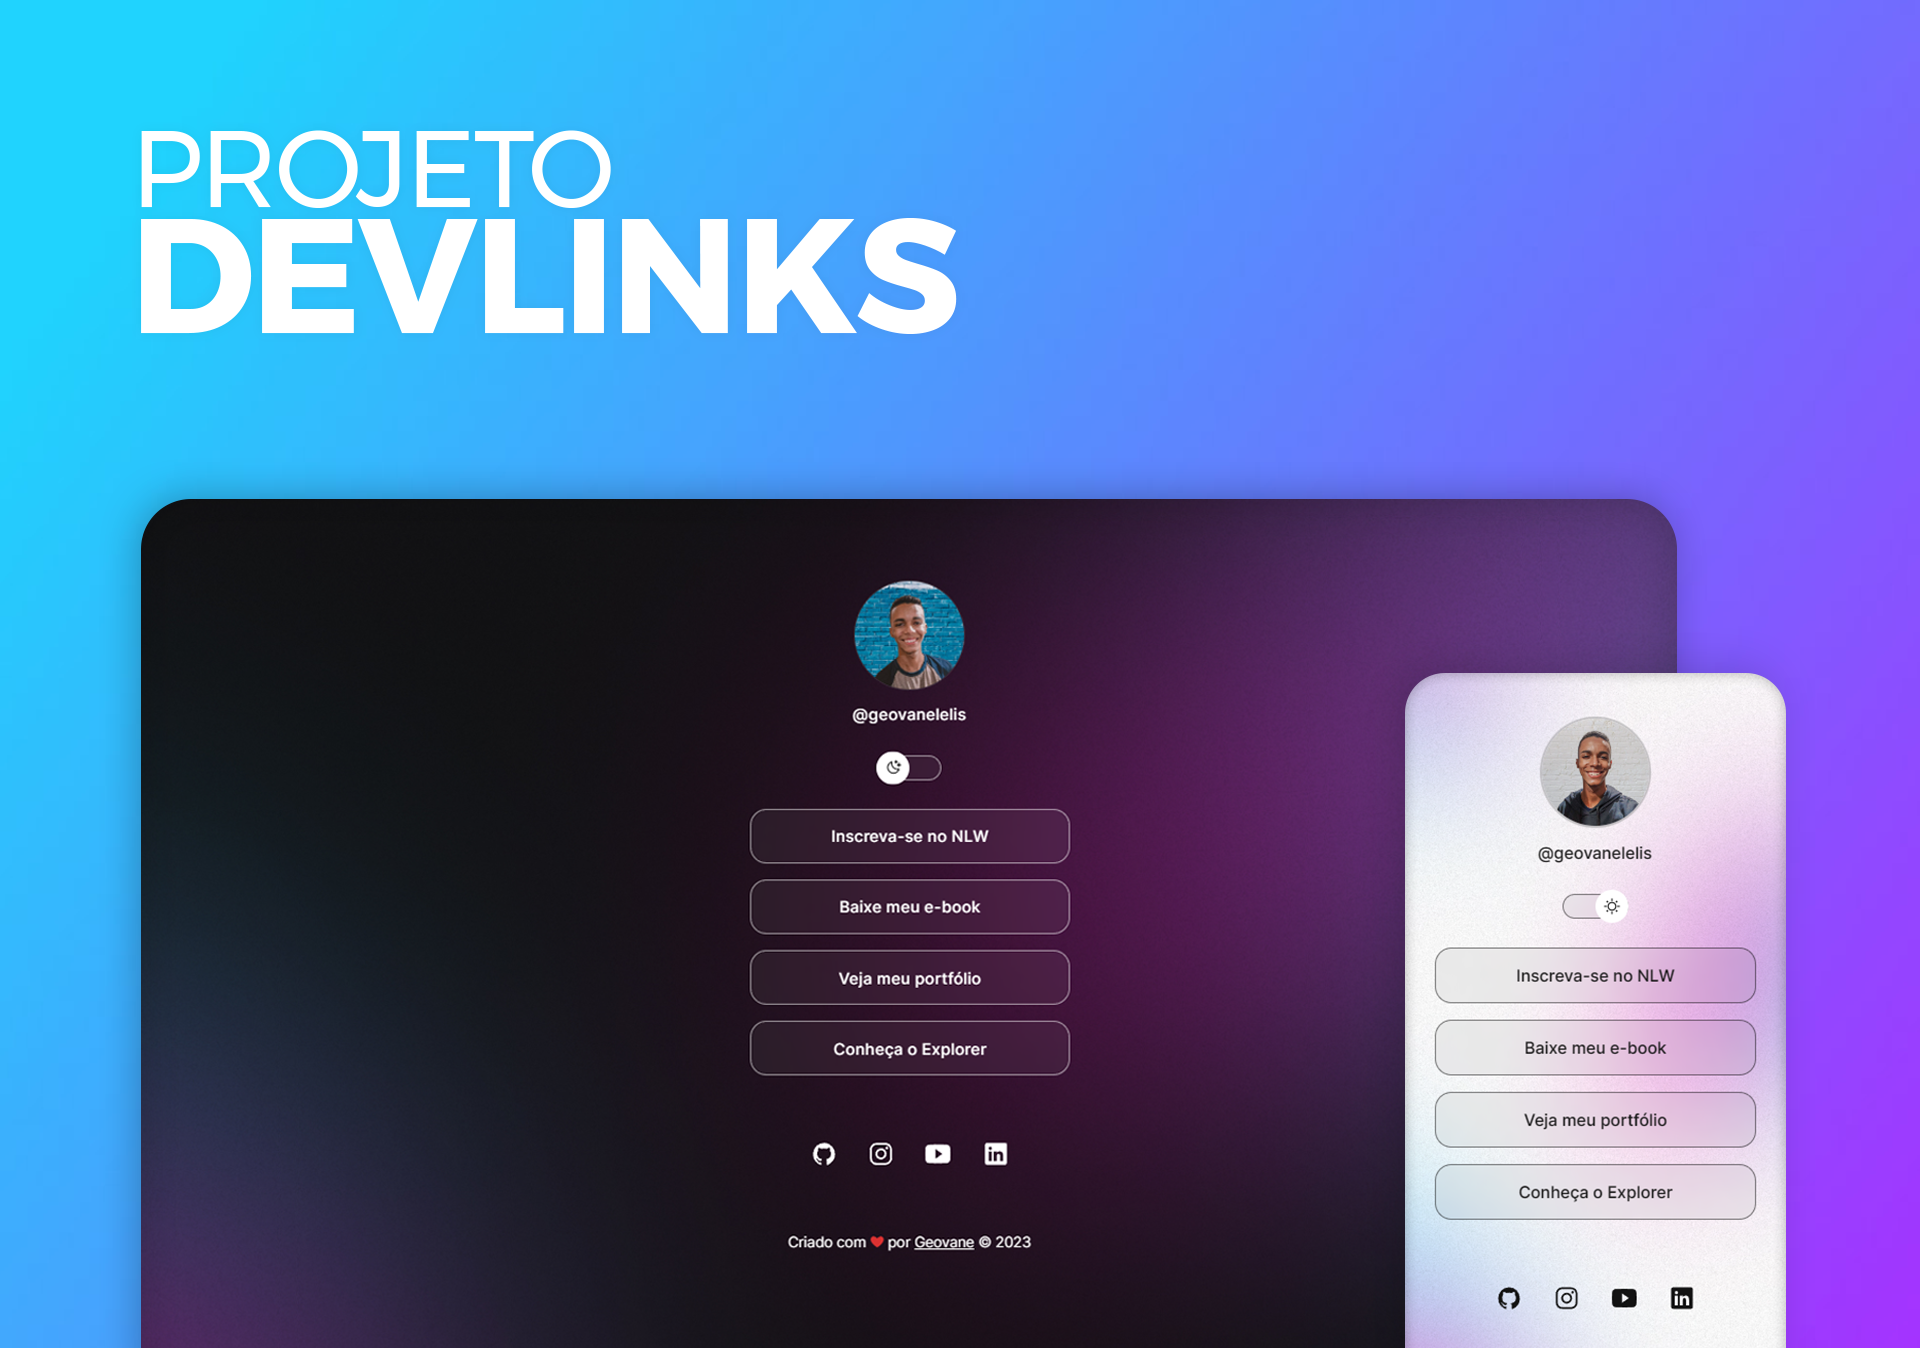
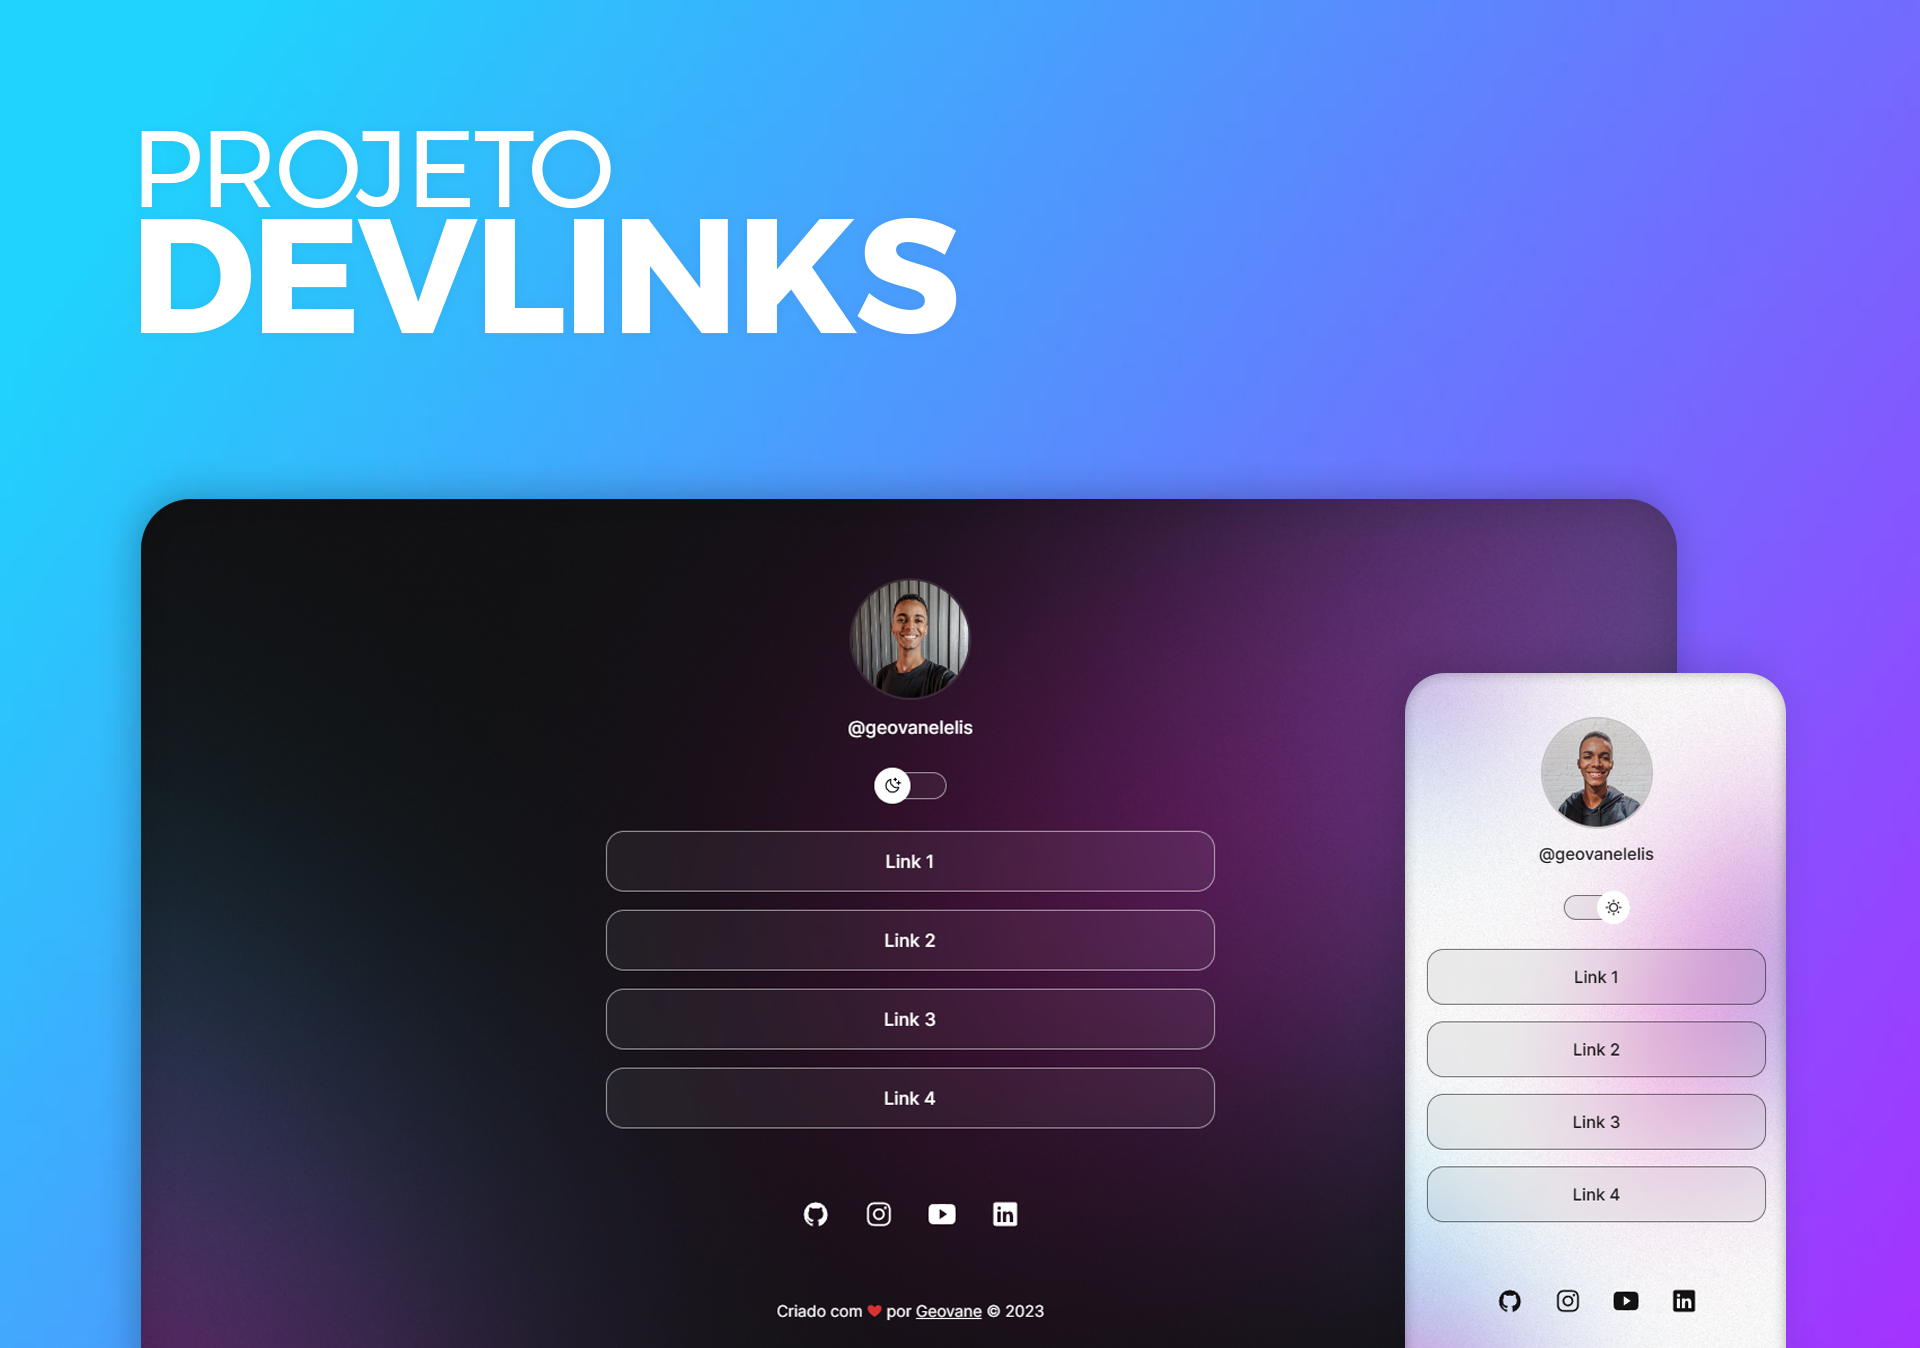
update Readme and Links

diff --git a/index.html b/index.html
@@ -28,18 +28,16 @@
 
       <ul>
         <li>
-          <a href="#" target="_blank">Inscreva-se no NLW</a>
+          <a href="#" target="_blank">Link 1</a>
         </li>
         <li>
-          <a href="#" target="_blank">Baixe meu e-book</a>
+          <a href="#" target="_blank">Link 2</a>
         </li>
         <li>
-          <a href="https://github.com/geovanelelis" target="_blank"
-            >Veja meu portfólio</a
-          >
+          <a href="#" target="_blank">Link 3</a>
         </li>
         <li>
-          <a href="#" target="_blank">Conheça o Explorer</a>
+          <a href="#" target="_blank">Link 4</a>
         </li>
       </ul>
       <div id="social-links">
